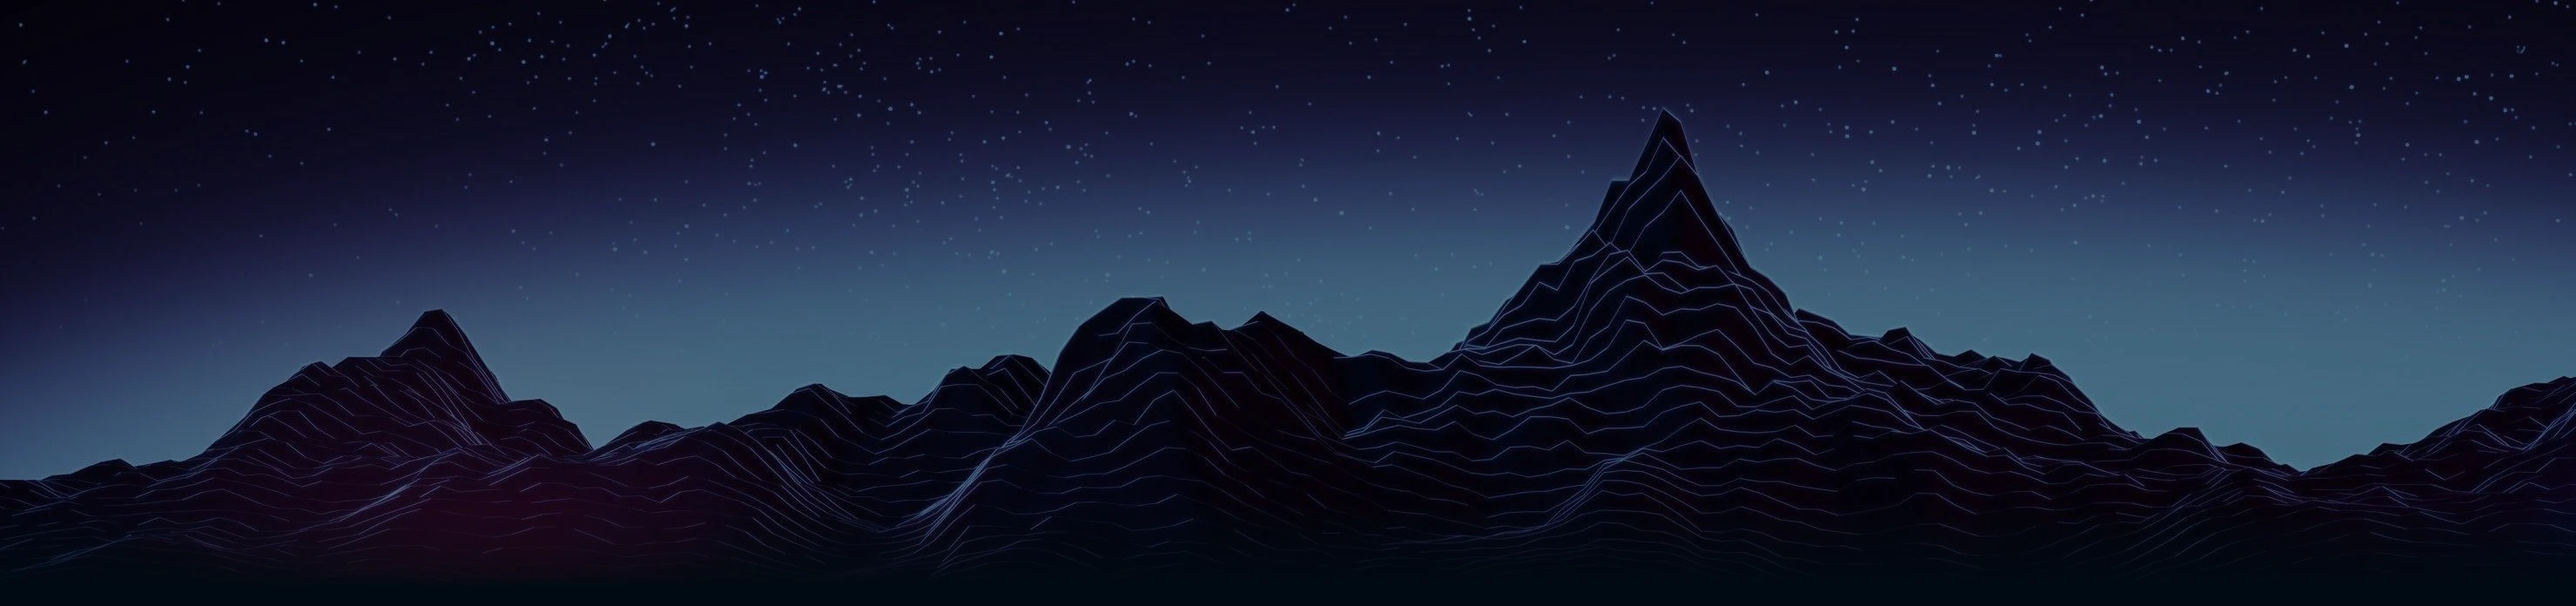
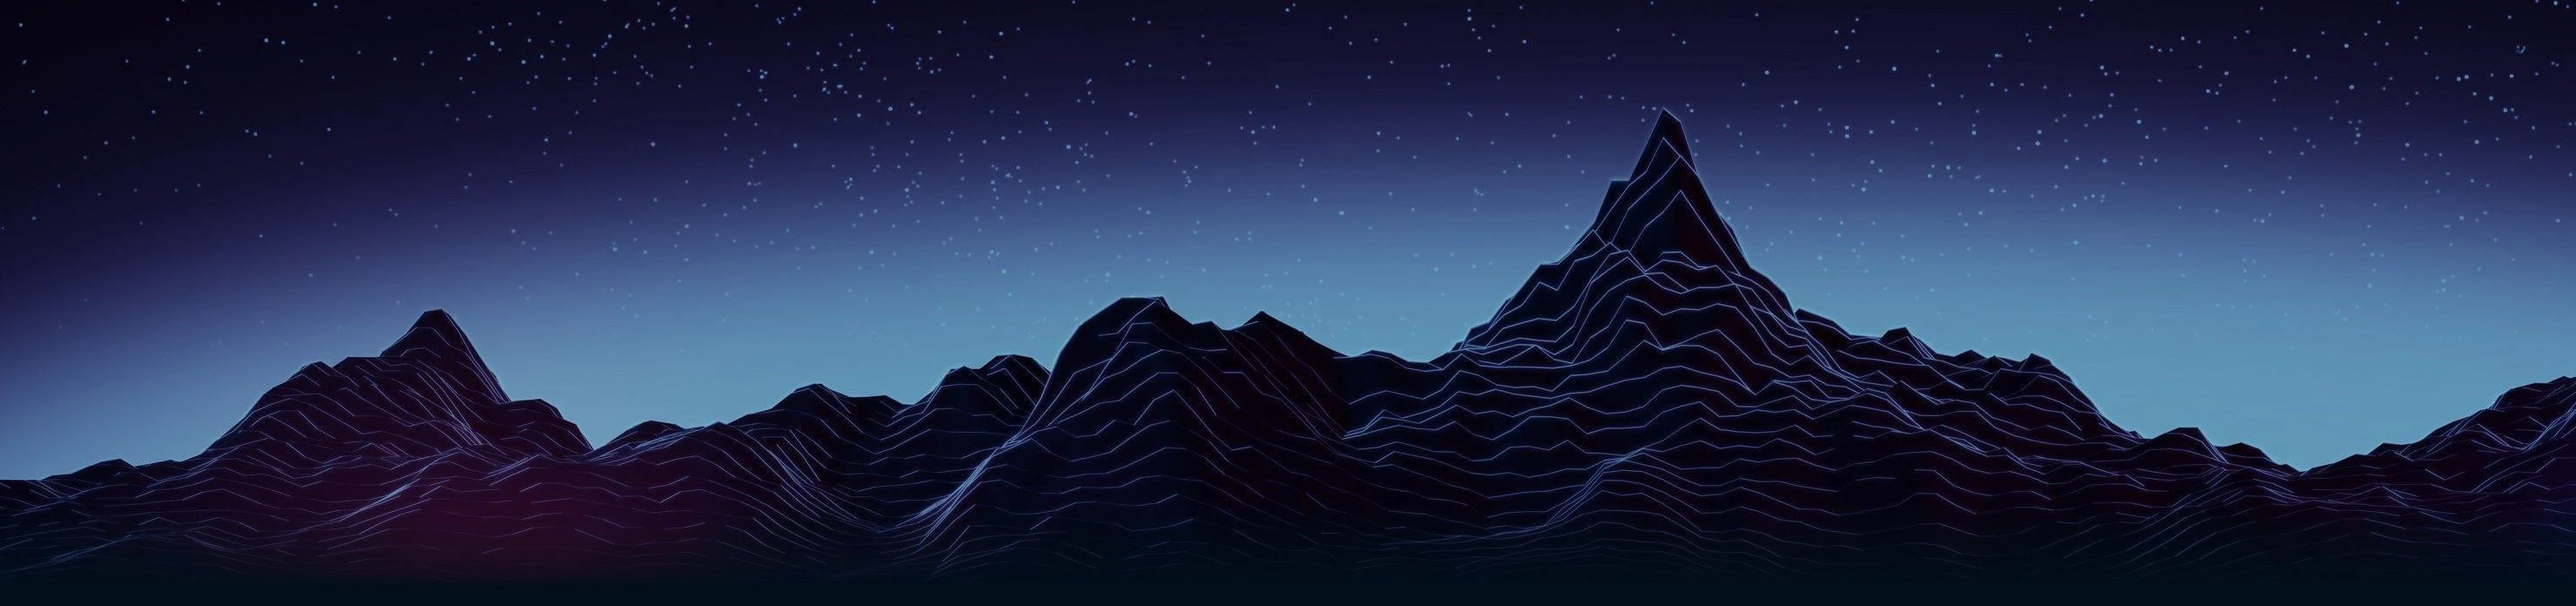
front page done

diff --git a/components/ThreeScene.tsx b/components/ThreeScene.tsx
@@ -12,6 +12,7 @@ import {
 } from '@react-three/drei'
 import { useEffect, useMemo, Suspense, useRef, useState, useCallback } from 'react'
 import Image from 'next/image'
+import Link from 'next/link'
 import * as THREE from 'three'
 import { SkeletonUtils } from 'three-stdlib'
 import spriteColors from '../public/static/animation-files/sprites/color_analysis.json'
@@ -98,7 +99,7 @@ function Lightning({
     <Line
       ref={lineRef}
       points={initialPoints}
-      color="#00f0ff"
+      color="#ff0000"
       lineWidth={4}
       transparent
       opacity={0}
@@ -254,8 +255,11 @@ function CubeGroup({
     (texture.image as HTMLImageElement).width / (texture.image as HTMLImageElement).height
   const isFacialRecognition = texturePath.includes('facial-recognition')
   const isAds = texturePath.includes('ads')
+  const isCyberbullying = texturePath.includes('cyberbullying')
   const baseScale = 0.65
-  const scale = isFacialRecognition ? baseScale * 1.33 : baseScale
+  let scale = baseScale
+  if (isFacialRecognition) scale = baseScale * 1.33
+  if (isCyberbullying) scale = baseScale * 1.5
   const w = aspect > 1 ? scale : scale * aspect
   const h = aspect > 1 ? scale / aspect : scale
 
@@ -282,7 +286,7 @@ function CubeGroup({
   return (
     <group ref={groupRef} position={position}>
       <ElectricEffect position={[0, 0, 0]} />
-      {isAds ? (
+      {isAds || isCyberbullying ? (
         <group
           ref={(el) => {
             onRef(el)
@@ -356,7 +360,7 @@ function OrbitingCubes({
     '/static/animation-files/sprites/hacker.png',
     '/static/animation-files/sprites/facial-recognition.png',
     '/static/animation-files/sprites/cookies.png',
-    '/static/animation-files/sprites/ads.png',
+    '/static/animation-files/sprites/cyberbullying.png',
     '/static/animation-files/sprites/password-breach.png',
   ]
   const textures = useTexture(texturePaths)
@@ -405,11 +409,11 @@ function OrbitingCubes({
               }
 
               const textMap: Record<string, string> = {
-                'facial-recognition.png': 'facial recognition thwarted!',
+                'facial-recognition.png': 'facial recognition denied!',
                 'hacker.png': 'hacker neutralised!',
                 'password-breach.png': 'password breach avoided!',
                 'location-tracking.png': 'location tracking blocked!',
-                'ads.png': 'ads removed!',
+                'cyberbullying.png': 'cyberbullying stopped!',
                 'cookies.png': 'cookies blocked!',
               }
 
@@ -616,10 +620,10 @@ function Knight({
 }
 
 function Floor() {
-  const texture = useTexture('/static/images/circuit-background-flipped-double.webp')
+  const texture = useTexture('/static/images/circuit-background-path-lines.webp')
   return (
-    <mesh rotation={[-Math.PI / 2, 0, -0.4]} position={[0, 0, 0]} receiveShadow>
-      <planeGeometry args={[20, 10]} />
+    <mesh rotation={[-Math.PI / 2, 0, -0.4]} position={[1.4, 0, 0]} receiveShadow>
+      <planeGeometry args={[25, 8]} />
       <meshStandardMaterial map={texture} transparent />
     </mesh>
   )
@@ -687,6 +691,11 @@ export default function ThreeScene({ className }: { className?: string }) {
   const [slashTrigger, setSlashTrigger] = useState(0)
   const [resetKey, setResetKey] = useState(0)
   const [buttonVisible, setButtonVisible] = useState(false)
+  const [showThreatText, setShowThreatText] = useState(false)
+  const [threatMessage, setThreatMessage] = useState('THREAT INCOMING')
+  const [isPulsing, setIsPulsing] = useState(true)
+  const [showEnterSite, setShowEnterSite] = useState(false)
+  const [fadeOutThreat, setFadeOutThreat] = useState(false)
   const gameOverRef = useRef(false)
 
   const handleAnimationEnd = useCallback(() => {
@@ -707,18 +716,26 @@ export default function ThreeScene({ className }: { className?: string }) {
     const timer = setTimeout(() => {
       setAnimation((prev) => (prev === 'idle-still' ? 'idle' : prev))
     }, 5000)
-    return () => clearTimeout(timer)
+
+    const threatTimer = setTimeout(() => {
+      setShowThreatText(true)
+    }, 3000)
+
+    return () => {
+      clearTimeout(timer)
+      clearTimeout(threatTimer)
+    }
   }, [])
 
   return (
     <div className={className || 'relative h-[500px] w-full'}>
       <div className="absolute top-0 left-0 -z-10 w-screen">
         <Image
-          src="/static/images/mountains-dark.webp"
+          src="/static/images/mountains-background.webp"
           alt="Background"
           width={1920}
           height={1080}
-          className="h-auto w-screen"
+          className="h-113 w-full object-cover"
           priority
         />
       </div>
@@ -731,9 +748,9 @@ export default function ThreeScene({ className }: { className?: string }) {
         // fog={{ color: '#000612', near: 5, far: 20 }}
       >
         {/* <color attach="background" args={['#000612']} /> */}
-        <ambientLight intensity={2.0} />
+        <ambientLight intensity={1.75} />
         <directionalLight
-          position={[5, 10, 7.5]}
+          position={[3, 8, 5]}
           castShadow
           intensity={3.0}
           shadow-mapSize-width={1024}
@@ -753,6 +770,20 @@ export default function ThreeScene({ className }: { className?: string }) {
               setTimeout(() => {
                 setAnimation('power-up')
               }, 500)
+              setTimeout(() => {
+                setButtonVisible(false)
+                setThreatMessage('WELL DONE! ALL THREATS DEFEATED!')
+                setIsPulsing(false)
+                setShowThreatText(true)
+
+                setTimeout(() => {
+                  setFadeOutThreat(true)
+                  setTimeout(() => {
+                    setShowThreatText(false)
+                    setShowEnterSite(true)
+                  }, 1000)
+                }, 3000)
+              }, 1000)
             }}
           />
           <Floor />
@@ -760,7 +791,10 @@ export default function ThreeScene({ className }: { className?: string }) {
         <CameraHandler />
         {/* <OrbitControls target={[0, 1, 0]} /> */}
       </Canvas>
-      <div className="absolute bottom-0 left-0 z-40 w-full bg-gradient-to-t from-black/50 to-transparent pt-32 pb-4 text-center">
+      <div
+        className="absolute bottom-0 left-0 z-40 w-full pt-32 pb-4 text-center"
+        style={{ background: 'linear-gradient(to top, rgba(0, 0, 0, 0.9), rgba(0, 0, 0, 0))' }}
+      >
         <div className="flex justify-center pb-4">
           <Image
             src="/static/images/DK-logo-full-text-blue.webp"
@@ -775,7 +809,7 @@ export default function ThreeScene({ className }: { className?: string }) {
           <svg width="60" height="12" viewBox="0 0 60 12" className="rotate-180 text-gray-400">
             <path d="M0 6 H15 M15 1 V11 M15 6 H60" stroke="currentColor" strokeWidth="2" />
           </svg>
-          <p className="text-2xl leading-7 font-medium text-gray-300">
+          <p className="text-lg leading-7 font-medium text-gray-300 md:text-2xl">
             Cybersecurity for kids, teens and parents
           </p>
           <svg width="60" height="12" viewBox="0 0 60 12" className="rotate-180 text-gray-400">
@@ -783,16 +817,51 @@ export default function ThreeScene({ className }: { className?: string }) {
           </svg>
         </div>
       </div>
-      <div className="absolute bottom-60 left-1/2 z-41 -translate-x-1/2 transform">
+      <div className="absolute bottom-60 left-1/2 z-41 flex -translate-x-1/2 transform flex-col items-center justify-center">
+        {showThreatText && !buttonVisible && (
+          <div className="absolute top-1/2 left-1/2 w-max -translate-x-1/2 -translate-y-1/2">
+            <div
+              className={`pointer-events-none text-lg font-bold select-none md:text-2xl ${isPulsing ? 'text-[#ff0000]' : 'text-[#00f0ff]'} ${fadeOutThreat ? 'opacity-0 transition-opacity duration-1000' : 'opacity-100'}`}
+              style={{
+                // fontSize: '24px',
+                textShadow: '-1px -1px 0 #000, 1px -1px 0 #000, -1px 1px 0 #000, 1px 1px 0 #000',
+                animation: isPulsing ? 'pulse 0.5s ease-in-out infinite' : 'none',
+                whiteSpace: 'pre-line',
+                textAlign: 'center',
+              }}
+            >
+              {threatMessage}
+              <style>{`
+              @keyframes pulse {
+                0%, 100% { transform: scale(1); }
+                50% { transform: scale(1.1); }
+              }
+            `}</style>
+            </div>
+          </div>
+        )}
+        {showEnterSite && (
+          <div className="absolute top-1/2 left-1/2 w-max -translate-x-1/2 -translate-y-1/2">
+            <Link
+              href="/about"
+              className="pointer-events-auto text-lg font-bold text-[#00f0ff] underline transition-colors duration-300 select-none hover:text-white md:text-2xl"
+              style={{
+                textShadow: '-1px -1px 0 #000, 1px -1px 0 #000, -1px 1px 0 #000, 1px 1px 0 #000',
+              }}
+            >
+              ENTER SITE
+            </Link>
+          </div>
+        )}
         <button
           disabled={!buttonVisible || animation !== 'idle' || gameOverRef.current}
           onClick={() => {
             setAnimation('slash')
             setSlashTrigger(Date.now())
           }}
-          className={`flex items-center gap-3 rounded-full border-2 bg-black/50 px-4 py-2 text-lg font-bold ${
+          className={`flex items-center gap-3 rounded-full border-2 bg-black/50 px-4 py-2 text-xl font-bold ${
             !buttonVisible || animation !== 'idle' || gameOverRef.current
-              ? 'cursor-not-allowed border-gray-500 text-gray-500 opacity-0'
+              ? 'pointer-events-none cursor-not-allowed border-gray-500 text-gray-500 opacity-0'
               : 'cursor-pointer border-[#00f0ff] text-[#00f0ff] opacity-100 hover:bg-black/70'
           }`}
         >

diff --git a/app/layout.tsx b/app/layout.tsx
@@ -94,7 +94,7 @@ export default function RootLayout({ children }: { children: React.ReactNode }) 
       <meta name="theme-color" media="(prefers-color-scheme: dark)" content="#000" />
       <link rel="alternate" type="application/rss+xml" href={`${basePath}/feed.xml`} />
       {/* <body className="bg-[radial-gradient(ellipse_at_center,_#172554_30%,_#000000_100%)] bg-fixed pl-[calc(100vw-100%)] font-sans text-white antialiased"> */}
-      <body className="bg-[#000022] font-sans text-white antialiased">
+      <body className="bg-[#141a1e] font-sans text-white antialiased" suppressHydrationWarning>
         <ThemeProviders>
           <Analytics analyticsConfig={siteMetadata.analytics as AnalyticsConfig} />
           <SearchProvider searchConfig={siteMetadata.search as SearchConfig}>
